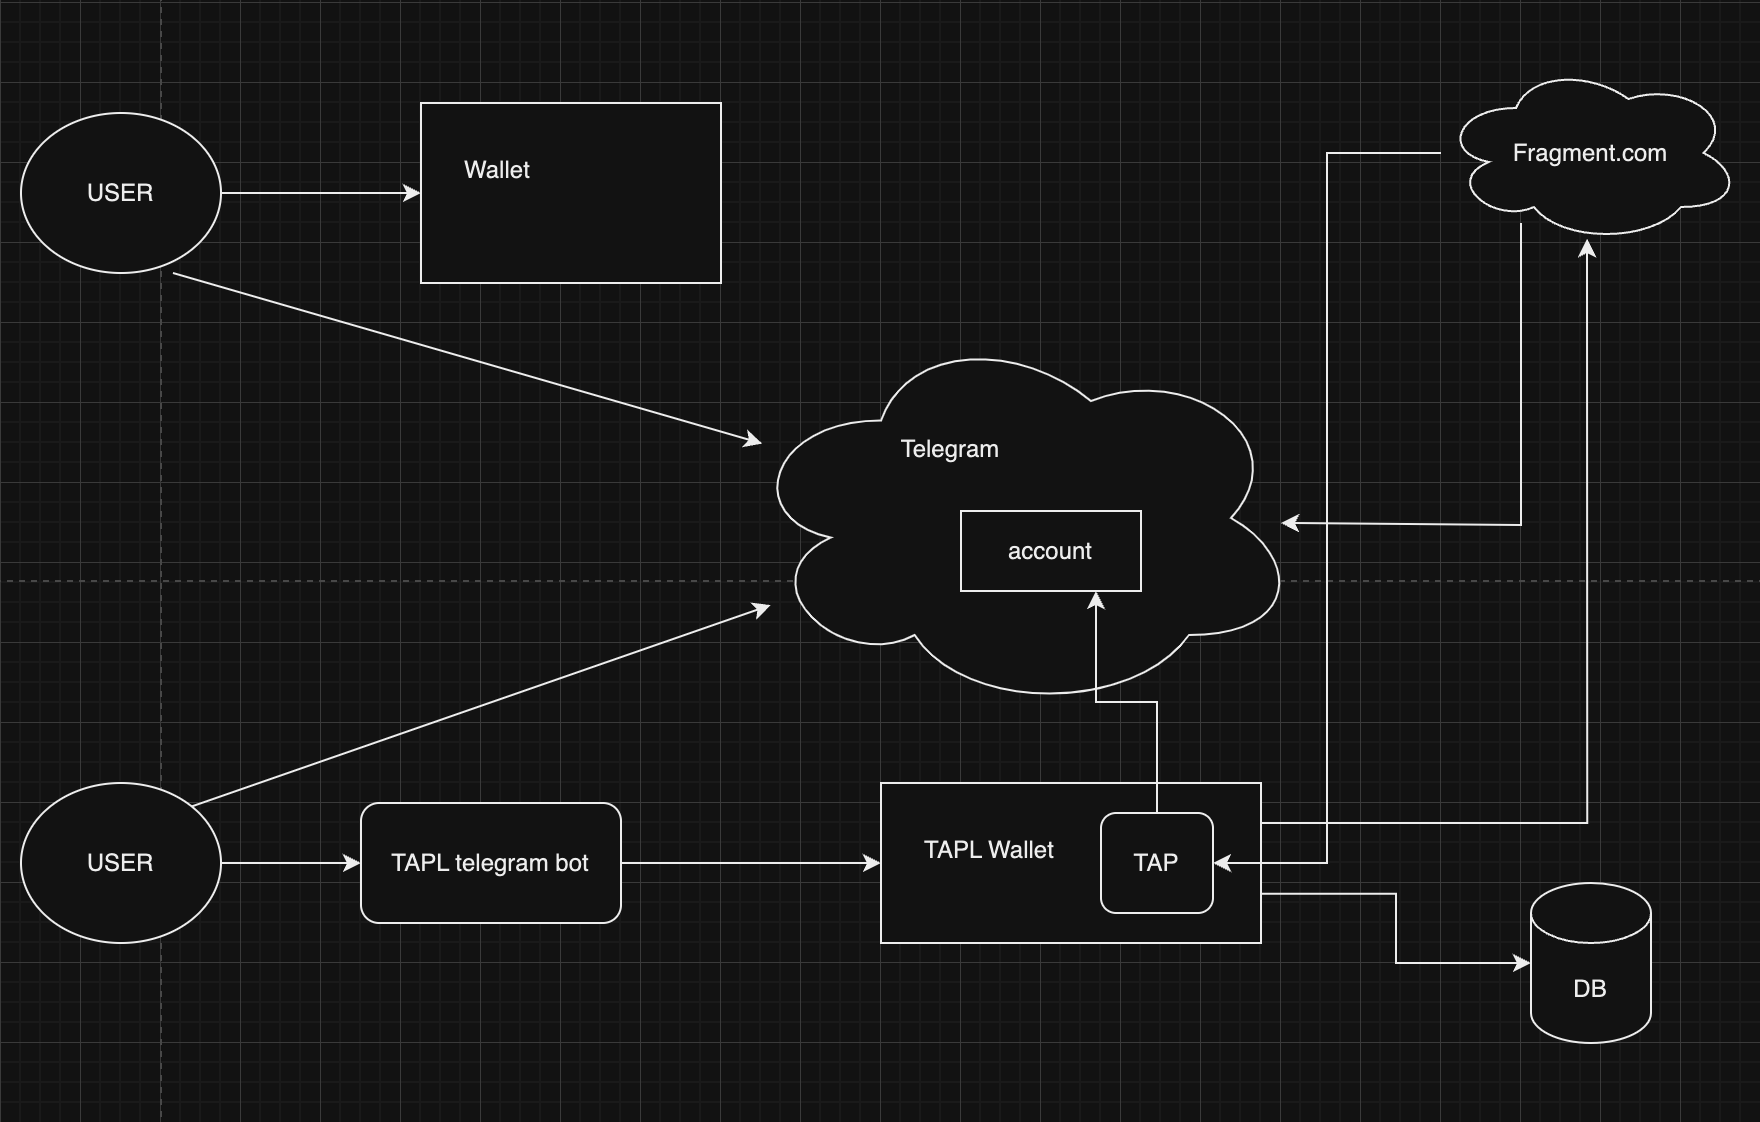
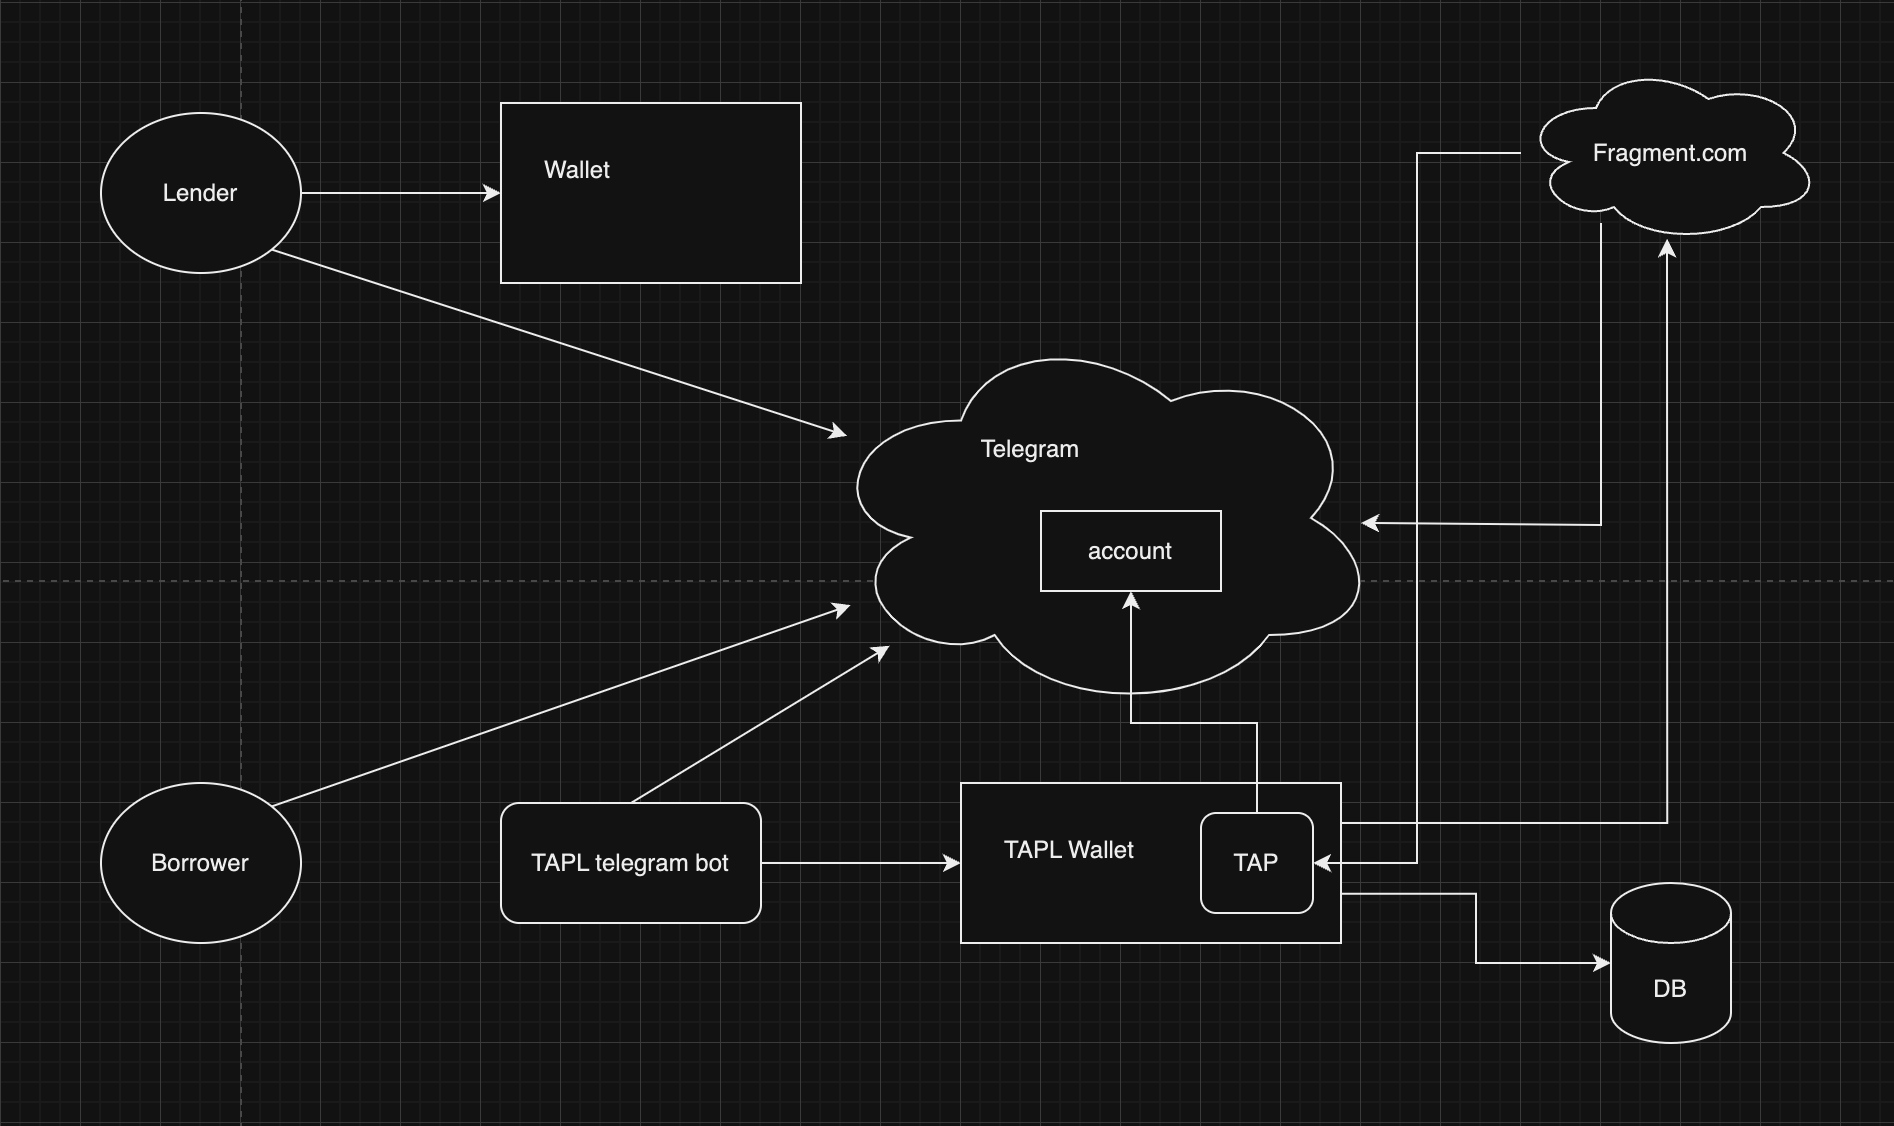
docs: revise readme and corresponding codes

diff --git a/ton-nft-lending/src/common/config.py b/ton-nft-lending/src/common/config.py
@@ -3,7 +3,8 @@ from .utils import to_public_key_address
 import os
 from dotenv import load_dotenv
 
-ENVIRONMENT = "test" # or "prod" / "main"
+TAPL_ENV = os.getenv("TAPL_ENV")
+ENVIRONMENT = TAPL_ENV if TAPL_ENV else "test"
 load_dotenv(os.path.dirname(os.path.realpath(__file__)) + f"/.{ENVIRONMENT}.env")
 
 tonapi_api_key = os.getenv("TONAPI_API_KEY")

diff --git a/tapl-bot/main.py b/tapl-bot/main.py
@@ -4,7 +4,8 @@ from datetime import datetime
 import os
 from dotenv import load_dotenv
 
-ENVIRONMENT = "test" # or "prod" / "main"
+TAPL_ENV = os.getenv("TAPL_ENV")
+ENVIRONMENT = TAPL_ENV if TAPL_ENV else "test"
 load_dotenv(os.path.dirname(os.path.realpath(__file__)) + f"/.{ENVIRONMENT}.env")
 
 

diff --git a/README.md b/README.md
@@ -1,6 +1,10 @@
 # TAPL
 
-**TAPL**: **T**elegram **A**nonymous **P**hone-number **L**ending
+![TAPL Logo](imgs/tapl-logo.jpg)
+
+![GitHub license](https://img.shields.io/github/license/RainBoltz/TAPL)
+
+**TAPL**: **T**elegram **A**nonymous **P**hone-number **L**ending platform
 
 Find us on Telegram: [@tap_lending_bot](https://t.me/tap_lending_bot)
 
@@ -21,18 +25,18 @@ TAPL is a platform that allows you to lend your [Telegram Anonymous Phone-number
 
 A TAP is a kind of [Non-Fungible Token](https://en.wikipedia.org/wiki/Non-fungible_token) (NFT) with special utilities: it's not only a token, it's a phone-number that you can use to register on Telegram.
 
-#### from lender's perspective...
+#### the Lender's perspective...
 
-Imagine that you have one or a bunch of anonymous phone-numbers that you are not using it at all. TAPs are just NFTs, they don't get a job and make money themselves, and we don't get any interest or benefit by locking them in our wallet. So why not lend them to other people and make some money?
+> Imagine that you have one or a bunch of anonymous phone-numbers that you are not using it at all. TAPs are just NFTs, they don't get a job and make money themselves, and we don't get any interest or benefit by locking them in our wallet. So why not lend them to other people and make some money?
 
 1. We own some TAPs, but we are not using every of them.
 2. We don't get any interest or benefit by locking them in our wallet.
 3. We can lend them to other people and make some money.
 4. For safety, we don't have to actually send the TAP to the borrower, we can just lend them the right to use the TAP. (e.i. give the borrower permission to access to the TAP login code)
 
-#### from borrower's perspective...
+#### the Borrower's perspective...
 
-Imagine you are a Telegram user who temporarily wants to register a new Telegram account and stay anonymous. You can buy a TAP from the market, but it may be too expensive. Why not just borrow one from other people?
+> Imagine you are a Telegram user who temporarily wants to register a new Telegram account and stay anonymous. You can buy a TAP from the market, but it may be too expensive. Why not just borrow one from other people?
 
 1. We need a Telegram Anonymous Phone-number to register on Telegram.
 2. Currently TAP is somehow too expensive that we can't afford it.
@@ -40,34 +44,39 @@ Imagine you are a Telegram user who temporarily wants to register a new Telegram
 
 ### How does it work?
 
-#### being a Lender...
+#### steps to become a Lender
 
-1. Get an lending instructions from TAPL Bot.
-2. Lend the TAP out by following the instructions.
-3. Wait for the TAP to be borrowed. Check the TAP status any time on TAPL Bot.
-4. Get an takeback instruction from TAPL Bot.
-5. Withdraw the TAP by following the instructions. (only if the TAP is not borrowed)
+1. Get an lending instructions from [TAPL Bot](https://t.me/tap_lending_bot).
+2. Lend the TAP out by following the instructions (using command `/lend`).
+3. Wait for the TAP to be borrowed. Check the TAP status any time on TAPL Bot (using command `/mylendings`).
+4. Get an takeback instruction from TAPL Bot (using command `/takeback`).
+5. Withdraw the TAP by following the instructions (only when the TAP is not borrowed).
 
-#### being a Borrower...
+#### steps to become a Borrower
 
-1. Get a borrowing instructions from TAPL Bot.
-2. Borrow the TAP by following the instructions.
-3. You temporarily owns the TAP until the lending period expires. Check the TAP status any time on TAPL Bot. You can get the corresponding Login Code though TAPL Bot.
+1. Get a borrowing instructions from [TAPL Bot](https://t.me/tap_lending_bot).
+2. Borrow the TAP by following the instructions (using command `/borrow`).
+3. You temporarily owns the TAP until the lending period expires. Check the TAP status any time (using command `/myaccount`). You can get the corresponding Login Code though TAPL Bot (using command `/getcode`). 
+4. You can register on Telegram with the Login Code. Note that when the lending period expires, you can't get the Login Code anymore so you can't access to the Telegram account with the TAP anymore.
 
 ## Diagrams
 
 ### TAPL System Architecture Diagram
 
-![TAPL System Architecture Diagram](https://raw.githubusercontent.com/RainBoltz/TAPL/main/imgs/tapl-system-architecture.png)
+![TAPL System Architecture Diagram](imgs/tapl-system-architecture.png)
 
 ### User workflow diagram
 
 When Lender hasn't lent the TAP out, the Borrower wouldn't have the corresponding Login Code access so the Borrower can't register or login on Telegram with the TAP.
 
-![TAPL User Workflow Diagram 1](https://raw.githubusercontent.com/RainBoltz/TAPL/main/imgs/lender-using-diagram.png)
+> the figure below shows the Lender hasn't lend out the TAP so the TAP is still lying in one's wallet
+
+![TAPL User Workflow Diagram 1](imgs/lender-using-diagram.png)
 
 When Lender has lent the TAP out and is borrowed by the Borrower, the Borrower would have the corresponding Login Code access so the Borrower can register on Telegram with the TAP.
 
-![TAPL User Workflow Diagram 2](https://raw.githubusercontent.com/RainBoltz/TAPL/main/imgs/borrower-using-diagram.png)
+> the figure below shows the Lender has lent the TAP out and is borrowed by the Borrower, but the Borrower doesn't have the ownership of the TAP but only the Login Code access
+
+![TAPL User Workflow Diagram 2](imgs/borrower-using-diagram.png)
 
 When the lending period expires, the Borrower would lose the Login Code access so the Borrower can't register on Telegram with the TAP anymore.

diff --git a/ton-nft-lending/readme.md b/ton-nft-lending/readme.md
@@ -28,18 +28,20 @@ sqlite> .exit
 
 ### check configurations
 
-- `src/common/config.py`: rename variable **ENVIRONMENT** based on your environment, which will read the corresponding `.[ENVIRONMENT].env` file
-- `.[ENVIRONMENT].env` file (ref `.env.sample`)
+- remember to provide the **TAPL_ENV** variable when running the scripts (if not given, the default will be `TAPL_ENV=test`)
+- `.[TAPL_ENV].env` file (ref `.env.sample`)
 
   - **STORAGE_WALLET_MNEMONICS**: mnemonics of storage wallet, words separated by space
   - **STORAGE_WALLET_ADDRESS**: address of storage wallet, both raw and base64 form are acceptable
   - **NFT_COLLECTION_ADDRESS**: address of NFT collection, both raw and base64 form are acceptable
   - **TONCENTER_API_KEY**: API key of TONCenter, please contact [@tonapibot](https://t.me/tonapibot), tutorial: https://toncenter.com/bot (remember to comfirm that you are on testnet or mainnet)
-  - **TONCENTER_API_URL**: _"https://testnet.toncenter.com/api/v2/"_ for testnet and _"https://toncenter.com/api/v2/"_ for mainnet
+  - **TONCENTER_API_URL**: _https://testnet.toncenter.com/api/v2/_ for testnet and _https://toncenter.com/api/v2/_ for mainnet
   - **TONAPI_API_KEY**: API key of TONAPI, please go to [tonconsole](https://tonconsole.com/dashboard) (remember to comfirm that you are on testnet or mainnet)
-  - **TONAPI_API_URL**: _"https://testnet.tonapi.io/v2"_ for testnet and _"https://tonapi.io/v2"_ for mainnet
+  - **TONAPI_API_URL**: _https://testnet.tonapi.io/v2_ for testnet and _https://tonapi.io/v2_ for mainnet
 
 - `src/db/schema.sql`: check if the values in table **_configs_** are desired
+
+- `src/api/main.py`: function `number_login_code` is the utility function to interact with [fragment.com](https://fragment.com) and get the login code for a given phone-number, note that ***currently it is mocked with a random 6-digit number***. (the production version **WILL NOT REVEAL IN PUBLIC** recently due to the further business concerns, contact [@rainboltz](https://t.me/rainboltz) for more collaboration details)
 
 ## Usage
 
@@ -47,7 +49,7 @@ sqlite> .exit
 
 This is the `On-Off-Chain Synchronize Service` in the architecture diagram.
 
-It will listen to the events of the storage wallet and update the database accordingly.
+> It will listen to the events of the storage wallet and update the database accordingly.
 
 ```bash
 $ cd ton-nft-lending
@@ -58,7 +60,7 @@ $ python3 -m src.runners.sse
 
 This is the `API Service` in the architecture diagram.
 
-It will provide the main business logics and the web API for the Telegram Bot to interact with.
+> It will provide the main business logics and the web API for the Telegram Bot to interact with.
 
 ```bash
 $ cd ton-nft-lending
@@ -69,7 +71,7 @@ $ python3 -m uvicorn src.api.main:app
 
 This is the `cronjob` in the architecture diagram.
 
-It will check the database periodically and do some cleanups and update the status for expired borrowings. 
+> It will check the database periodically and do some cleanups and update the status for expired borrowings.
 
 ```bash
 $ cd ton-nft-lending

diff --git a/tapl-bot/readme.md b/tapl-bot/readme.md
@@ -18,8 +18,8 @@ $ pip3 install -r requirements.txt
 
 ### check configurations
 
-- `main.py`: rename variable **ENVIRONMENT** based on your environment, which will read the corresponding `.[ENVIRONMENT].env` file
-- `.[ENVIRONMENT].env` file (ref `.env.sample`)
+- `main.py`: rename variable **TAPL_ENV** based on your environment, which will read the corresponding `.[TAPL_ENV].env` file
+- `.[TAPL_ENV].env` file (ref `.env.sample`)
   - **TELEGRAM_BOT_TOKEN**: Telegram Bot Token
 
 ## Usage
@@ -28,7 +28,7 @@ $ pip3 install -r requirements.txt
 
 This is the `Telegram Bot` in the architecture diagram.
 
-It will provide the frontend interface on Telegram for users to interact with.
+> It will provide the frontend interface on Telegram for users to interact with.
 
 ```bash
 $ cd tapl-bot
